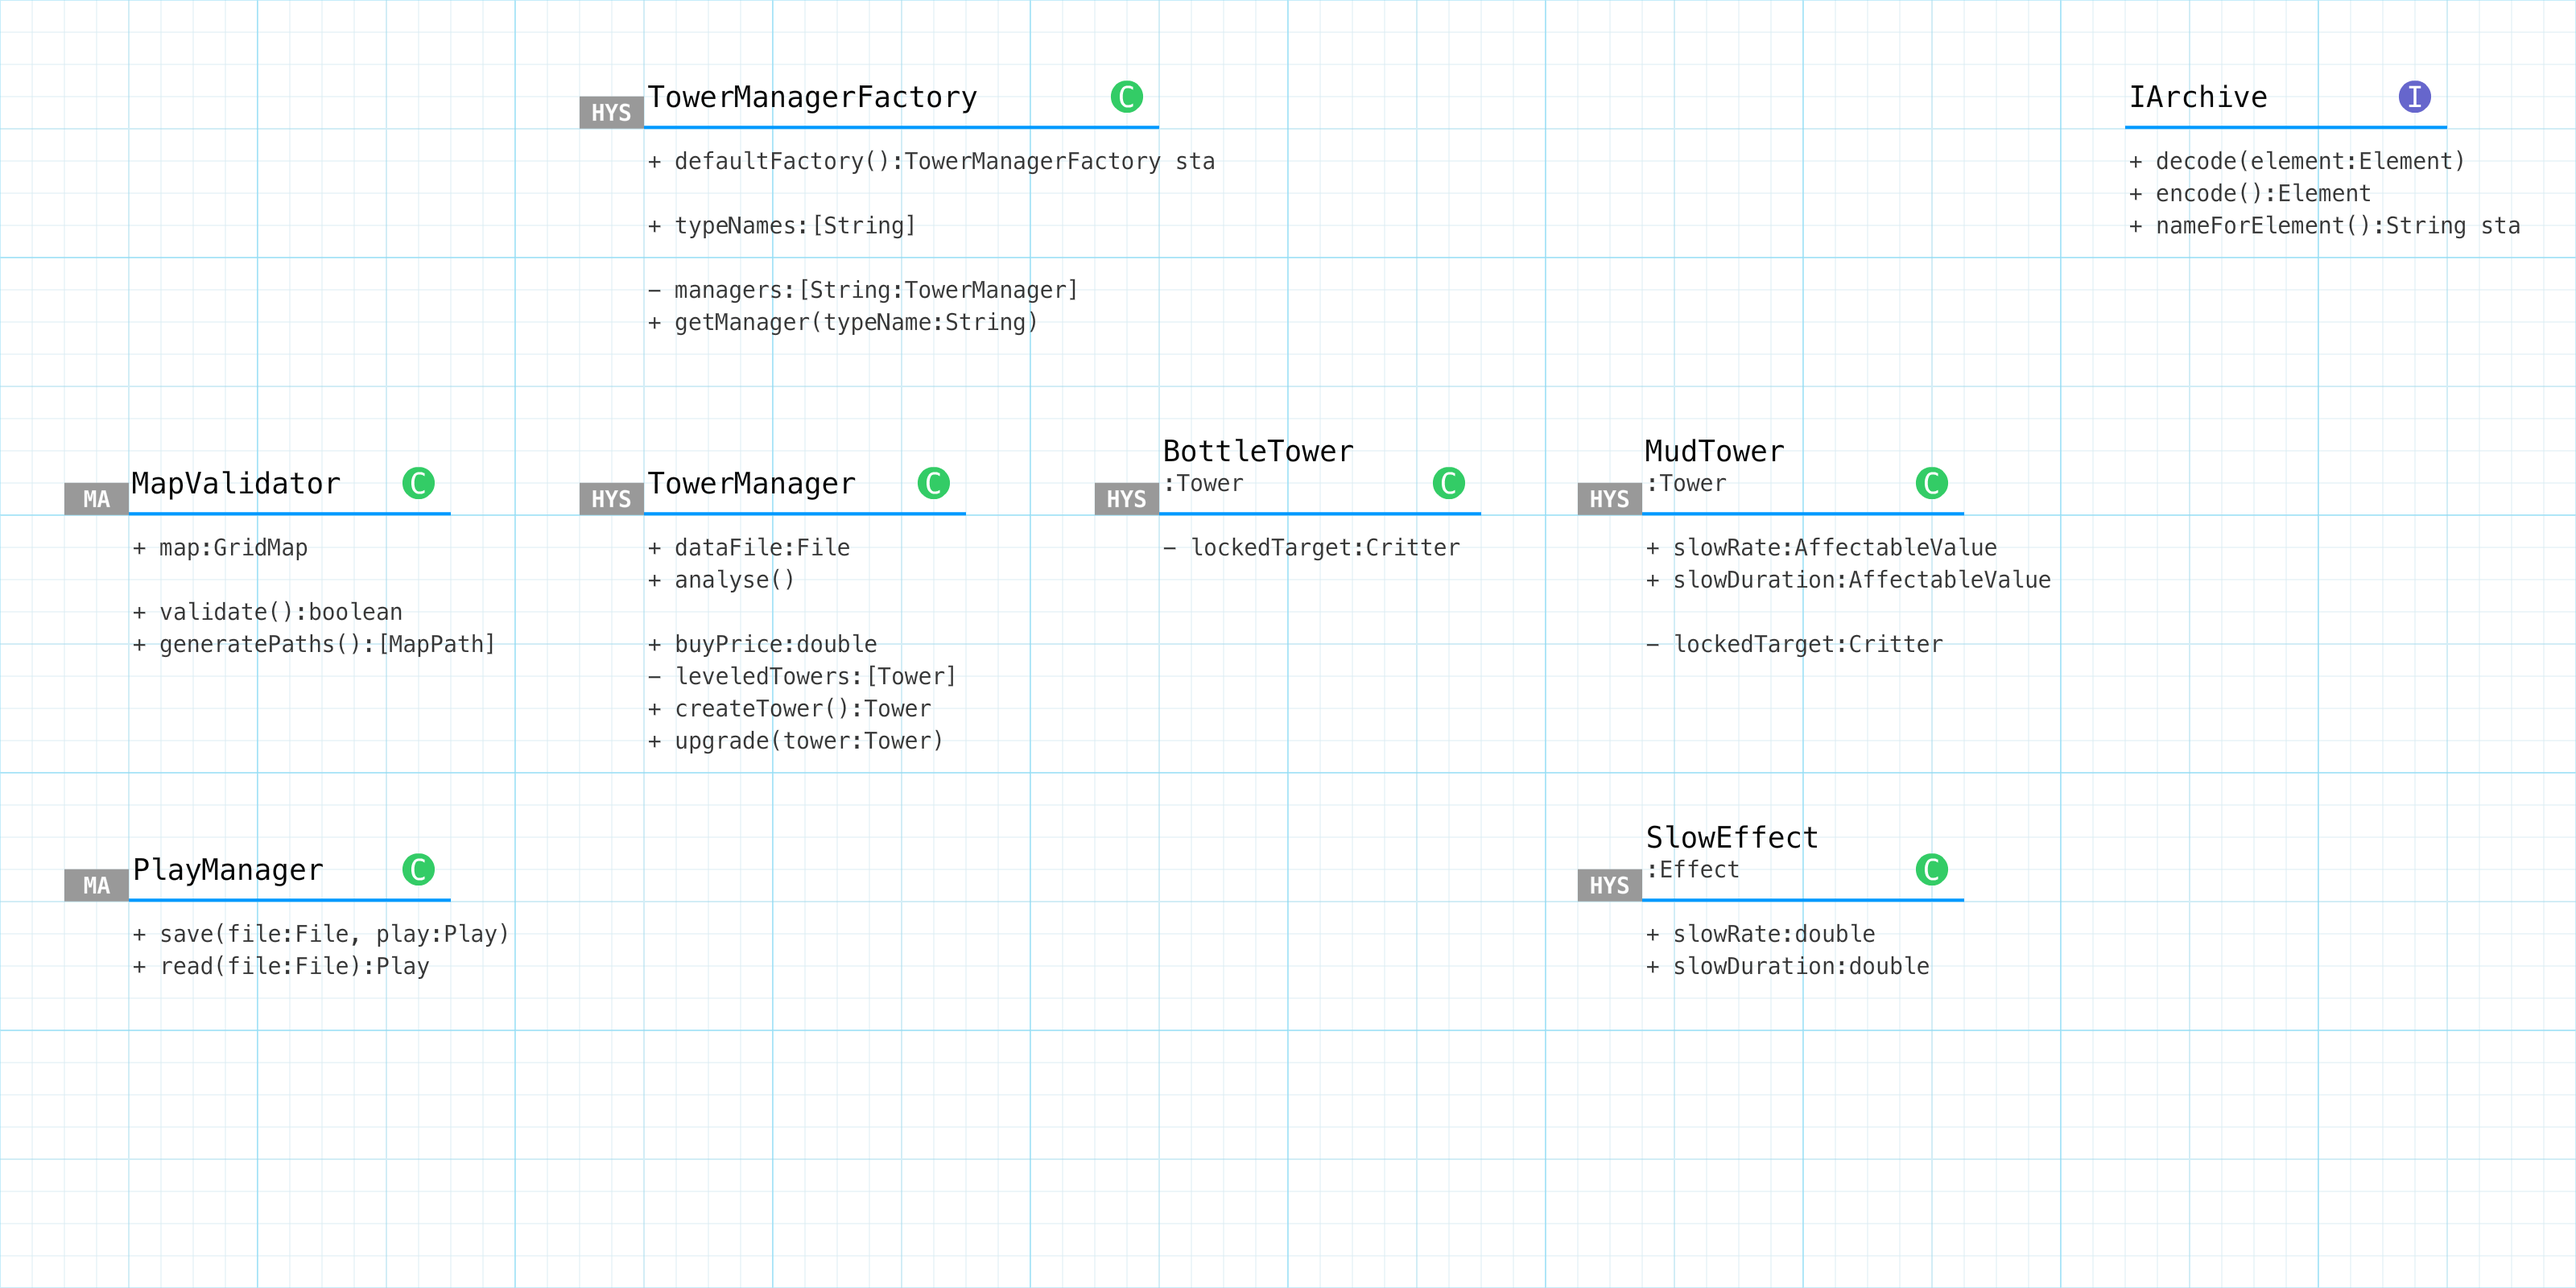
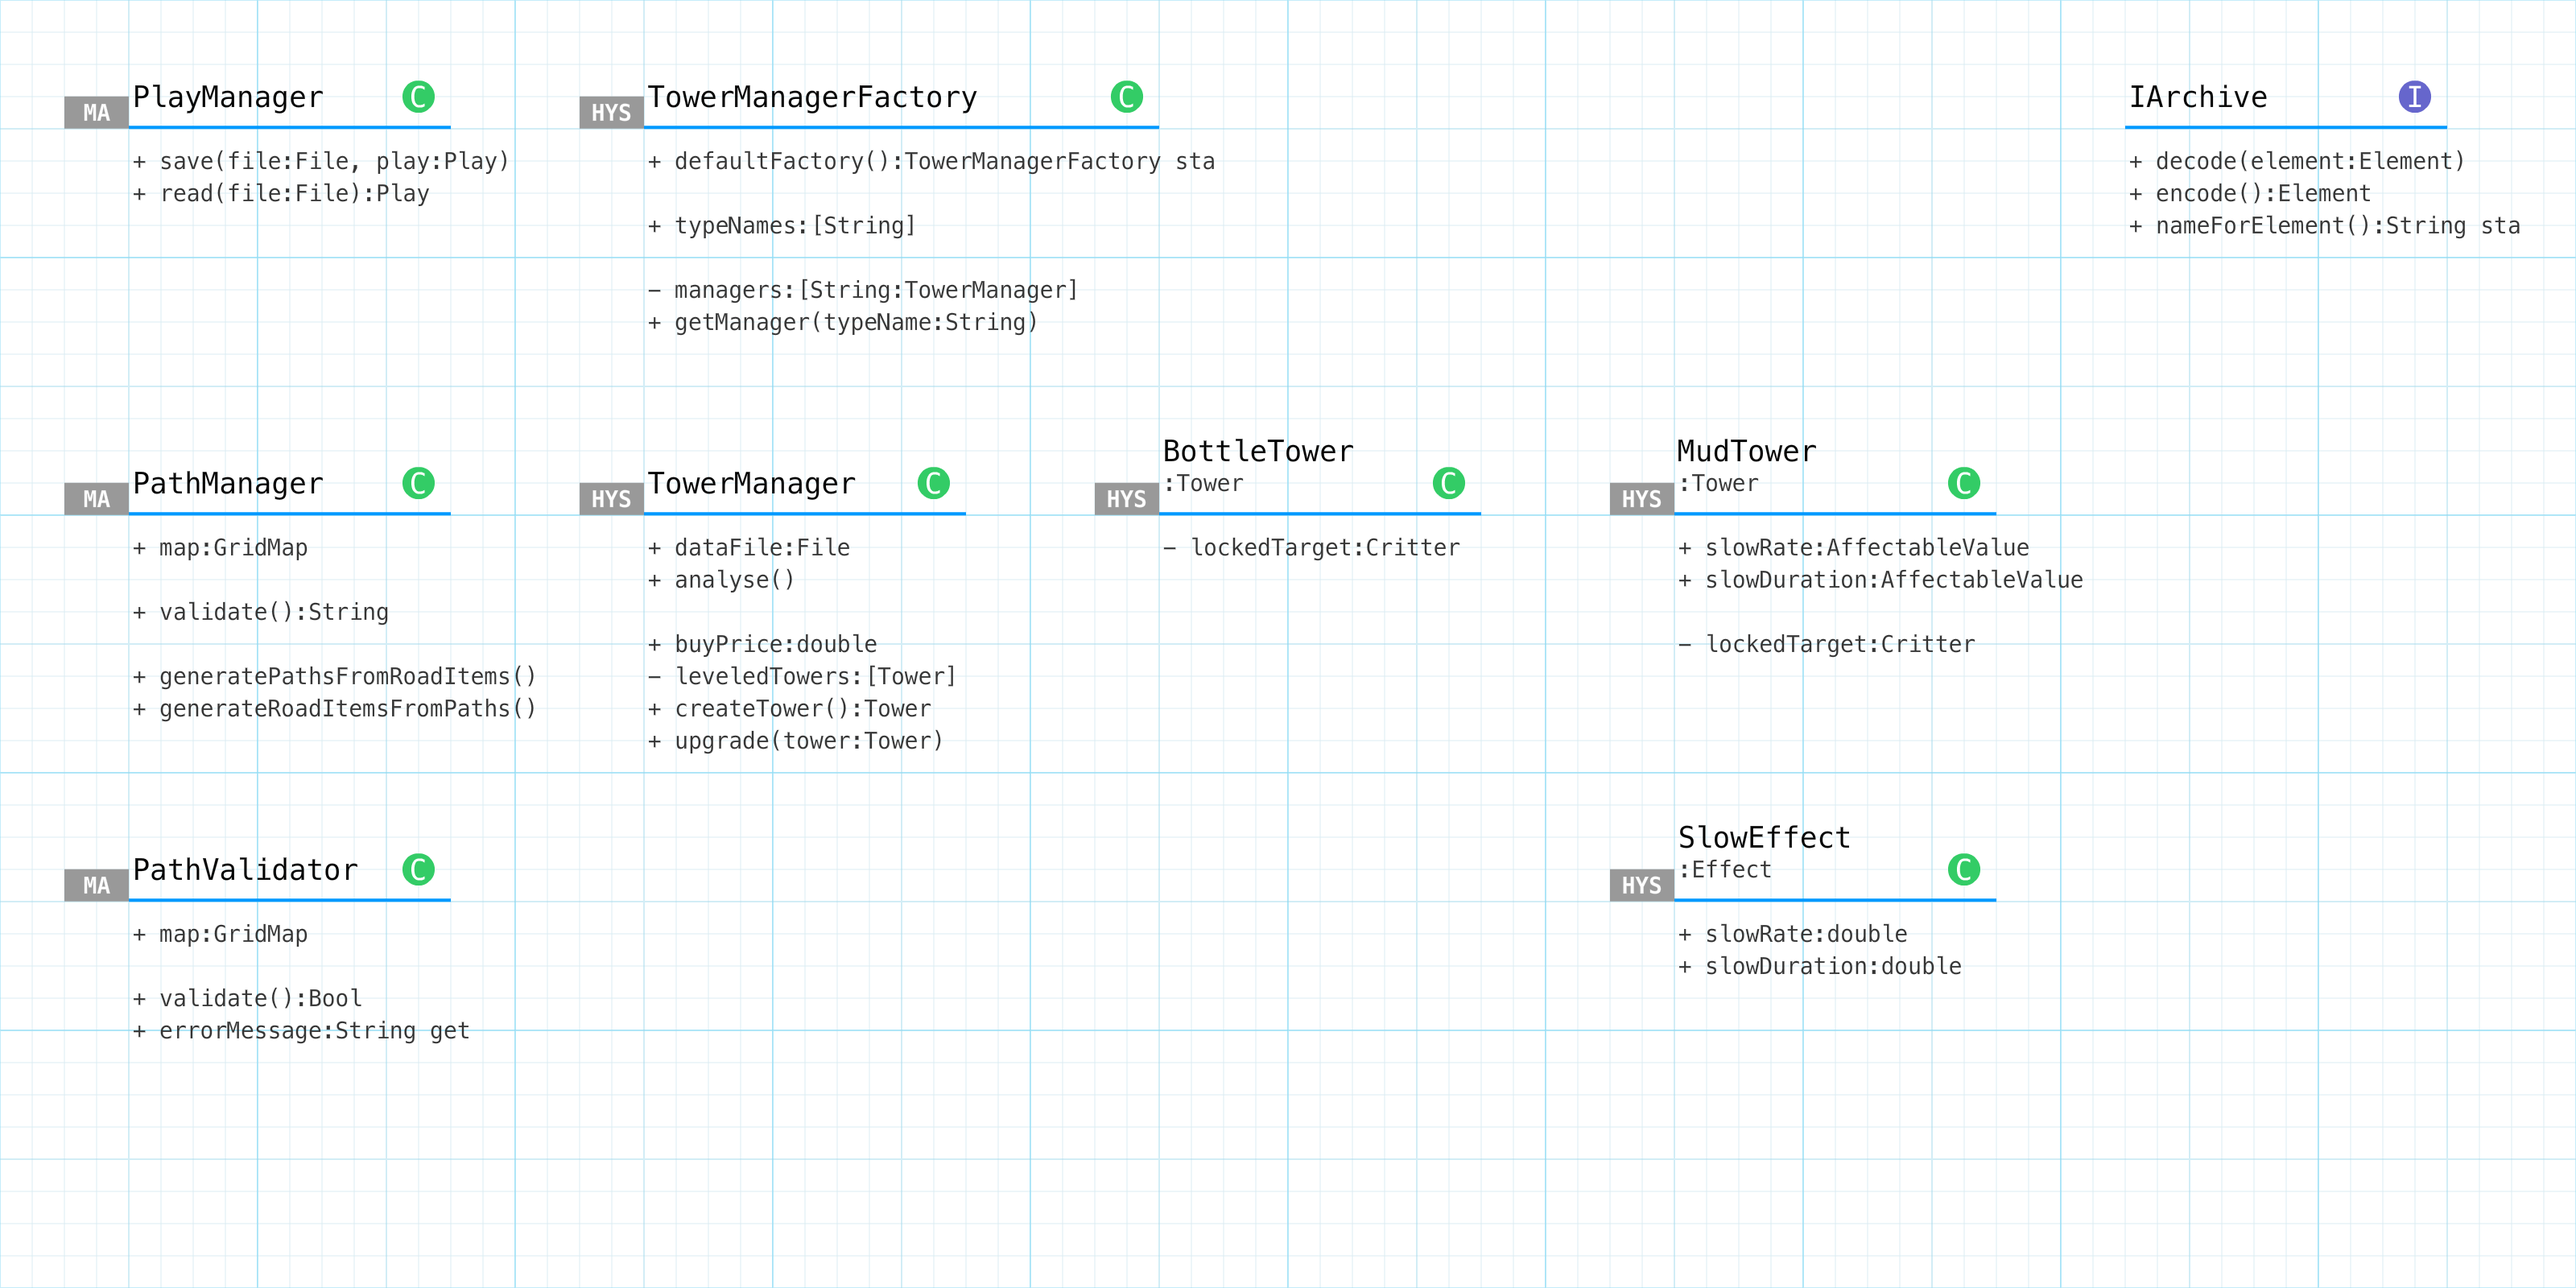
New Diagrams, Path Manager, Path Validator
New Diagrams, Path Manager, Path Validator

diff --git a/src/com/soen6441/core/map/PathManager.java b/src/com/soen6441/core/map/PathManager.java
@@ -1,0 +1,48 @@
+package com.soen6441.core.map;
+
+import java.util.ArrayList;
+import java.util.List;
+
+public class PathManager {
+	
+	private GridMap map;
+	
+	public GridMap getMap() {
+		return map;
+	}
+
+	public void setMap(GridMap map) {
+		this.map = map;
+	}
+
+	public PathManager() {
+		validators = new ArrayList<PathValidator>();
+	}
+
+	private List<PathValidator> validators;
+	private PathValidator erroredValidator;
+	
+	public boolean validate() {
+		for (PathValidator validator:validators) {
+			validator.setMap(map);
+			boolean result = validator.validate();
+			if (!result) {
+				erroredValidator = validator;
+				return false;
+			}
+		}
+		return true;
+	}
+
+	public String getErrorMessage() {
+		return erroredValidator.getErrorMessage();
+	}
+	
+	public void generatePathsFromRoadItems(){
+		
+	}
+
+	public void generateRoadItemsFromPaths(){
+		
+	}
+}

diff --git a/src/com/soen6441/core/map/PathValidator.java b/src/com/soen6441/core/map/PathValidator.java
@@ -1,0 +1,40 @@
+package com.soen6441.core.map;
+
+
+
+
+/**
+ * This class will check whether the map is valid or not.In addition, this class
+ * will provide methods to generate paths on the map  
+ * 
+ * @author Mohammad Ali
+ */
+
+public abstract class PathValidator {
+
+	private GridMap map;
+	
+	protected String errorMessage; 
+
+	/**
+	 * Method validate.
+	 * @return boolean
+	 */
+	public abstract boolean validate();
+	
+	public GridMap getMap() {
+		return map;
+	}
+
+	public void setMap(GridMap map) {
+		this.map = map;
+	}
+
+	public String getErrorMessage(){
+		return errorMessage;
+	}
+	
+	protected void setErrorMassage(String errorMessage){
+		this.errorMessage = errorMessage;
+	}
+}

diff --git a/src/com/soen6441/core/play/PlayManager.java b/src/com/soen6441/core/play/PlayManager.java
@@ -1,4 +1,4 @@
-package com.soen6441.core.map;
+package com.soen6441.core.play;
 
 import java.io.File;
 import java.io.FileWriter;
@@ -15,7 +15,9 @@ import org.dom4j.Node;
 import org.dom4j.io.SAXReader;
 import org.dom4j.io.XMLWriter;
 
-import com.soen6441.core.Play;
+import com.soen6441.core.map.GridMap;
+import com.soen6441.core.map.MapPath;
+import com.soen6441.core.map.MapPoint;
 
 
 /**

diff --git a/src/com/soen6441/ui/scene/PlayingScene.java b/src/com/soen6441/ui/scene/PlayingScene.java
@@ -8,7 +8,7 @@ import java.util.List;
 import java.util.Observable;
 import java.util.Observer;
 
-import com.soen6441.core.Play;
+import com.soen6441.core.play.Play;
 import com.soen6441.ui.common.Command;
 import com.soen6441.ui.common.IInspectable;
 import com.soen6441.ui.common.InspectorView;

diff --git a/src/test/soen6441/core/map/CoreSuite.java b/src/test/soen6441/core/map/CoreSuite.java
@@ -1,0 +1,10 @@
+package test.soen6441.core.map;
+
+import org.junit.runner.RunWith;
+import org.junit.runners.Suite;
+import org.junit.runners.Suite.SuiteClasses;
+
+@RunWith(Suite.class)
+@SuiteClasses({GridMapTest.class})
+public class CoreSuite {
+}

diff --git a/src/com/soen6441/core/tower/Tower.java b/src/com/soen6441/core/tower/Tower.java
@@ -1,8 +1,8 @@
 package com.soen6441.core.tower;
 
-import com.soen6441.core.Play;
 import com.soen6441.core.effect.AffectableValue;
 import com.soen6441.core.map.MapItem;
+import com.soen6441.core.play.Play;
 
 
 /**

diff --git a/src/demo/soen6441/core/singleton/PlayDemo.java b/src/demo/soen6441/core/singleton/PlayDemo.java
@@ -1,6 +1,6 @@
 package demo.soen6441.core.singleton;
 
-import com.soen6441.core.Play;
+import com.soen6441.core.play.Play;
 
 /**
  */

diff --git a/src/com/soen6441/core/play/Play.java b/src/com/soen6441/core/play/Play.java
@@ -1,4 +1,4 @@
-package com.soen6441.core;
+package com.soen6441.core.play;
 
 import java.util.Observable;
 
